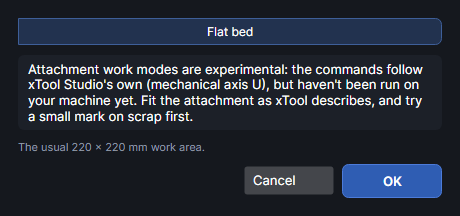
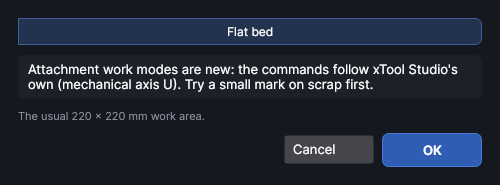
Work mode: give the rotary settings room
The Object Ø and Laser line boxes shared one row and were crushed to a
couple of digits. Each setting now has its own full-width row, the
scale check sits in its own panel, the window is a little wider, and
the "haven't been run on your machine" warning is shortened now that
attachments have been run.

Claude-Session: https://claude.ai/code/session_018iRXF1eUEQrB2ajohzeHuC

diff --git a/src/PhotonCanvas.App/WorkModeWindows.cs b/src/PhotonCanvas.App/WorkModeWindows.cs
@@ -37,7 +37,7 @@ public sealed class WorkModeWindow : Window
         _attachments = [.. Enumerable.Range(0, WorkModes.Attachments.Length).Where(i => WorkModes.Owned(settings, i))];
         _attach.ItemsSource = _attachments.Select(i => WorkModes.Attachments[i]).ToList();
         Title = "Work mode";
-        Width = 460;
+        Width = 500;
         SizeToContent = SizeToContent.Height;
         CanResize = false;
         WindowStartupLocation = WindowStartupLocation.CenterOwner;
@@ -60,33 +60,49 @@ public sealed class WorkModeWindow : Window
         ToolTip.SetTip(_seen, "How many turns the object really made (put a tape flag on it and count; a quarter is 0.25).");
         var correct = Button("Correct the scale", tip: "Change the scale so the asked-for turns come out right next time.");
         correct.Click += (_, _) => Correct();
-        ToolTip.SetTip(_line, "Where the laser draws across the object, in mm from the back edge of the work field (110 is the middle). Set it over the top of the object, along the rotary's axis: frame a job to see the line, and move it until it sits there.");
+        ToolTip.SetTip(_line, "Where the laser draws across the object, in mm from the back edge of the 220 mm work field (110 is the middle). Set it over the top of the object, along the rotary's axis: frame a job to see the line, and move it until it sits there.");
         ToolTip.SetTip(_diameter, "The object's diameter where it's marked. With rollers it sets how far round the design goes; with the chuck it also sets the scale.");
         ToolTip.SetTip(_rate, "The belt's calibration from xTool Studio (Conveyor calibration, 90–105 %, normally 100).");
         ToolTip.SetTip(_angle, "The belt's angle compensation from xTool Studio's conveyor calibration (0 if never calibrated).");
         var read = Button("Read from the machine", tip: "Use the calibration stored on the machine (needs a connection).");
         read.Click += async (_, _) => await ReadCalibration();
+        correct.HorizontalAlignment = HorizontalAlignment.Stretch;
+        _calNote.IsVisible = false; // until a correction has something to say
         _custom = new StackPanel
         {
-            Spacing = 8,
+            Spacing = 10,
             Children =
             {
                 Field("Holds the object", _customKind),
                 Field("Units a turn", _turnUnits),
                 Field("Roller scale", _rollerScale),
                 _reverse,
-                Hint("Test it on scrap: a design as tall as the work area should turn the object exactly once. Count only the slow turn while it draws: the quick turns before and after just go to the start and back. If it doesn't turn exactly once, type how far it turned and correct the scale."),
-                Row(Field("Turns asked", _asked), Field("Turns made", _seen)),
-                correct, _calNote,
+                new Border
+                {
+                    Background = Brush("Bg2"), CornerRadius = new(6), Padding = new(12, 10),
+                    Child = new StackPanel
+                    {
+                        Spacing = 8,
+                        Children =
+                        {
+                            new TextBlock { Text = "CHECK THE SCALE", Classes = { "h" } },
+                            Hint("Run a design as tall as the work area on scrap: it should turn the object exactly once. Count only the slow turn while it draws (the quick turns before and after just go to the start and back)."),
+                            Field("Turns asked", _asked),
+                            Field("Turns made", _seen),
+                            correct, _calNote,
+                        },
+                    },
+                },
             },
         };
         _rotary = new StackPanel
         {
-            Spacing = 8,
+            Spacing = 10,
             Children =
             {
                 Field("Attachment", _attach),
-                Row(Field("Object Ø (mm)", _diameter), Field("Laser line (mm from back)", _line)),
+                Field("Object Ø (mm)", _diameter),
+                Field("Laser line (mm)", _line),
                 _custom,
                 Hint("The work area becomes the field's width × once round the object. Design Y goes round it; the middle of the design faces the laser at the start."),
             },
@@ -107,8 +123,8 @@ public sealed class WorkModeWindow : Window
             Child = new TextBlock
             {
                 TextWrapping = TextWrapping.Wrap,
-                Text = "Attachment work modes are experimental: the commands follow xTool Studio's own (mechanical axis U), but haven't been run on your machine yet. " +
-                       "Fit the attachment as xTool describes, and try a small mark on scrap first.",
+                Text = "Attachment work modes are new: the commands follow xTool Studio's own (mechanical axis U). " +
+                       "Try a small mark on scrap first.",
             },
         };
         var ok = new Button { Content = "OK", Classes = { "primary" }, IsDefault = true, MinWidth = 100 };
@@ -175,6 +191,7 @@ public sealed class WorkModeWindow : Window
         var field = _customKind.SelectedIndex == 0 ? _turnUnits : _rollerScale;
         double was = (double)(field.Value ?? 0), now = WorkModes.Calibrated(was, asked, seen);
         field.Value = Math.Clamp((decimal)Math.Round(now, 5), field.Minimum, field.Maximum);
+        _calNote.IsVisible = true;
         _calNote.Text = Math.Abs(now - was) < 1e-9 ? "Nothing to correct: it turned as asked." : $"Changed from {was:0.#####} to {now:0.#####}. Press OK to keep it, then run the test again to check.";
         _asked.Value = 1; _seen.Value = 1;
     }

diff --git a/docs/help/work-area.md b/docs/help/work-area.md
@@ -45,7 +45,7 @@ to the mode's size and the view fits it; the status bar says the mode. **Cancel*
 |---|---|---|---|
 | **Attachment** | the ones you have: RA2 Pro · rollers, RA2 Pro · chuck, RA3 · rollers, RA3 · chuck, Your own rotary | the first | Which attachment and how it holds the object. |
 | **Object Ø (mm)** | 2 to 200 | 60 | The object's diameter where it's marked. With rollers it sets how far round the design goes; with the chuck it also sets the scale. |
-| **Laser line (mm from back)** | 1 to 219 | 110 | Where the laser draws across the object, measured from the back edge of the 220 mm field (110 is the middle). Put it over the top of the object, along the rotary's axis. **Frame** a job to see the line, and change the number until the line sits there. |
+| **Laser line (mm)** | 1 to 219 | 110 | Where the laser draws across the object, measured from the back edge of the 220 mm field (110 is the middle). Put it over the top of the object, along the rotary's axis. **Frame** a job to see the line, and change the number until the line sits there. |
 
 - The work area becomes the field's width (220 mm) × once round the object. The window shows
   "Once round": π × the diameter. Only the first 375 mm can be used (xTool Studio's limit).

diff --git a/docs/help/tutorials/area-work-mode.md b/docs/help/tutorials/area-work-mode.md
@@ -32,6 +32,7 @@ Click **Work mode** on the **Laser** tab.
 Click **Rotary** or **Conveyor** at the top.
 - Rotary: pick the **Attachment** and type the **Object Ø (mm)** where it's marked. For
   **Your own rotary**, also say how it **Holds the object** and its scale (correct it from a test turn).
+  If the laser doesn't land over your rotary, change **Laser line (mm)**.
 - Conveyor: **Belt calibration %** and **Angle**, or **Read from the machine**.
 
 ## Use it
@@ -41,5 +42,5 @@ Click **OK**. The work area changes size: once round the object, or 610 mm of be
 
 ## Try it on scrap
 <!-- target: ribbon:Laser/Ship It -->
-Fit the attachment as xTool describes. **Frame** only traces a thin line across the middle; ship a
-small test mark first. **Work mode** → **Flat bed** goes back to the bed.
+Fit the attachment as xTool describes. **Frame** only traces a thin line where the laser will draw
+(the **Laser line**); ship a small test mark first. **Work mode** → **Flat bed** goes back to the bed.
